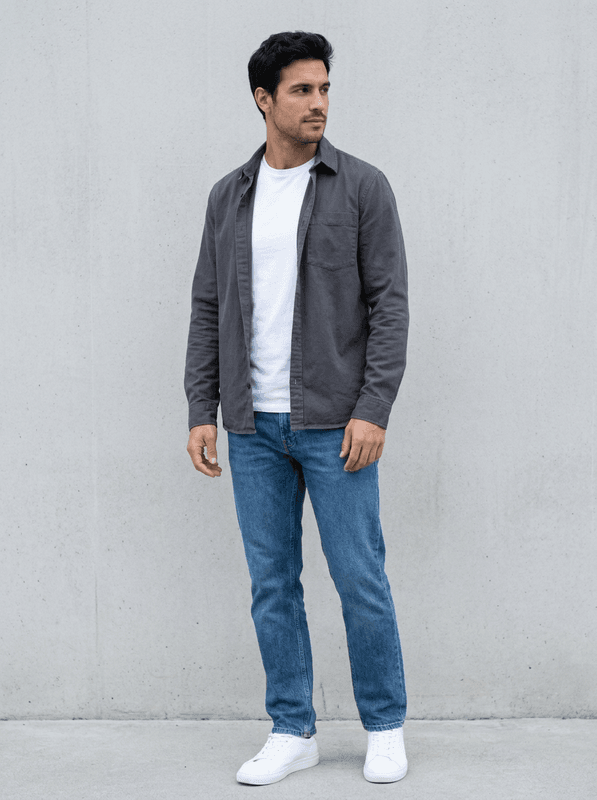
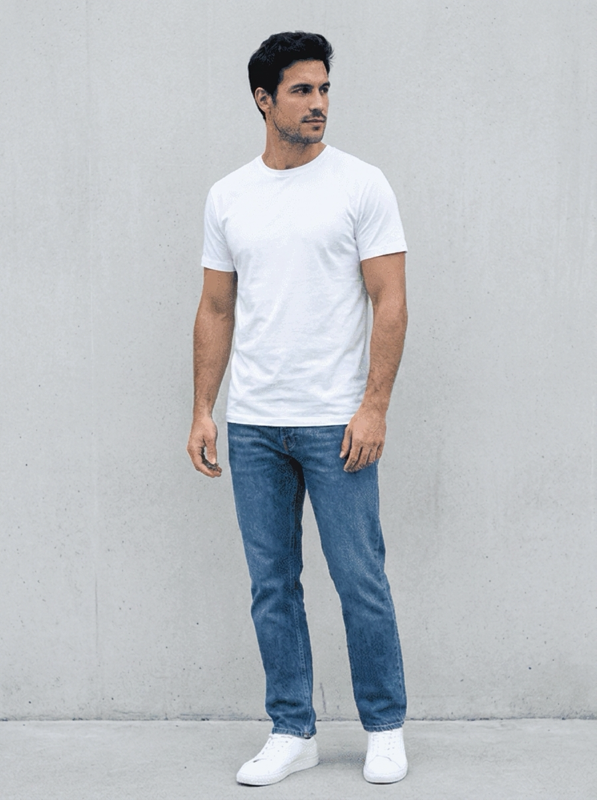
v0.2.308.2 — el 'antes' del try-on de hombre, sin la capa
La sobrecamisa gris abierta competía con el blazer del 'después' y rompía el
paralelo con la versión de mujer (que arranca en ropa base). Editada con el
modelo de imagen del producto: sólo se quita la capa, todo lo demás igual.

diff --git a/CHANGELOG.md b/CHANGELOG.md
@@ -2,6 +2,20 @@
 
 Cambios notables de stailist. Formato basado en [Keep a Changelog](https://keepachangelog.com/es/); versiones `MAJOR.MINOR.PATCH.MICRO`.
 
+## [0.2.308.2] - 2026-09-08 — el "antes" del try-on de hombre, sin la capa
+
+En la demo "pruébatelo" del paso 4, el antes de hombre traía una sobrecamisa
+gris abierta sobre la camiseta. Dos problemas: rompía el paralelo con la
+versión de mujer, que arranca en ropa base (camiseta lisa + jeans), y la capa
+gris abierta compite visualmente con el blazer marino del después — el
+crossfade casi no se leía. Ahora el antes es camiseta blanca + jeans + tenis,
+misma persona, misma pose, mismo muro.
+
+La imagen se editó con el mismo modelo de imagen del producto
+(`lib/gemini-imagen.ts`), pidiéndole quitar SOLO la sobrecamisa y conservar
+cara, cuerpo, pose, encuadre, fondo y luz. El hero de hombre ya estaba bien
+(camiseta gris lisa) y no se tocó.
+
 ## [0.2.308.1] - 2026-09-08 — las tarjetas del paso 1 salen del mazo real
 
 Las tres tarjetas "sí / sí / no" de "Me dices quién eres" eran fotos viejas
